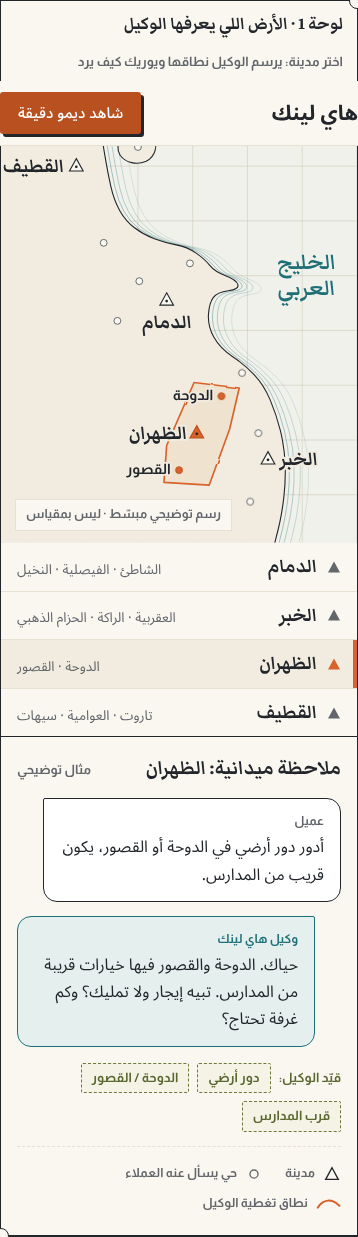
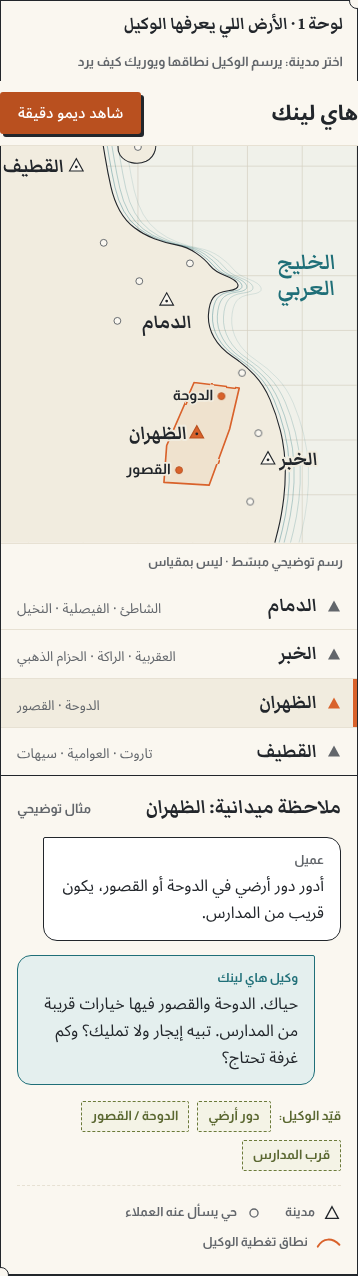
Run 2: site-c director round
Claude-Session: https://claude.ai/code/session_01CYWmR93YUjbtxaQfm32y4Y

diff --git a/fable-test-2/sites/site-c/index.html b/fable-test-2/sites/site-c/index.html
@@ -61,6 +61,7 @@ bdi{unicode-bidi:isolate}
 .btn-solid:hover{background:var(--green);color:var(--black)}
 .btn-line{background:transparent;color:var(--black)}
 .btn-line:hover{background:var(--black);color:var(--concrete)}
+.m-only{display:none}
 
 /* ---------- hero ---------- */
 .hero{border-block-end:var(--rule);min-block-size:calc(100vh - 75px);min-block-size:calc(100svh - 75px);display:flex;flex-direction:column}
@@ -74,7 +75,7 @@ bdi{unicode-bidi:isolate}
 .lede{margin-block:28px 36px;font-size:20px;max-inline-size:44ch}
 .ctas{display:flex;flex-wrap:wrap;gap:14px}
 .hero-side{display:flex;flex-direction:column}
-.hero-side .cell{padding:28px 32px;border-block-end:var(--rule);flex:1;display:flex;flex-direction:column;justify-content:flex-end}
+.hero-side .cell{padding:28px 32px;border-block-end:var(--rule);flex:1;display:flex;flex-direction:column;justify-content:flex-start}
 .hero-side .cell:last-child{border-block-end:0}
 .cell-label{font-weight:800;font-size:14px;margin-block-end:6px}
 .cell p{font-size:16px;line-height:1.6}
@@ -309,6 +310,15 @@ bdi{unicode-bidi:isolate}
   .final p{font-size:18px}
   .foot .wrap{grid-template-columns:minmax(0,1fr)}
 }
+@media (max-width:600px){
+  .d-only{display:none}
+  .m-only{display:inline}
+  .ctas .btn-line{inline-size:auto;border:0;padding:6px 0;background:none;text-decoration:underline;text-decoration-thickness:2px;text-underline-offset:6px;font-size:17px}
+  .ctas .btn-line:hover{background:none;color:var(--black);text-decoration-thickness:4px}
+  .row:not(.ev):not(.q){min-block-size:15px}
+  .row:not(.ev):not(.q) .sec{font-size:11px;line-height:15px}
+  .row.now:not(.ev):not(.q) .sec{font-size:12px}
+}
 @media (prefers-reduced-motion:reduce){
   html{scroll-behavior:auto}
   *,*::before,*::after{transition:none!important;animation:none!important}
@@ -339,11 +349,11 @@ bdi{unicode-bidi:isolate}
         <p class="lede">هاي لينك وكيل ذكاء اصطناعي يشتغل على واتساب مكتبكم: يرد على العميل خلال ثواني، يعرف وش يبي، ويحجز المعاينة في تقويم المكتب. بالليل، وفي الويكند، وفي وقت الدوام.</p>
         <div class="ctas">
           <a class="btn btn-solid" href="#minute">شاهد ديمو دقيقة <span class="arr" aria-hidden="true">←</span></a>
-          <a class="btn btn-line" href="mailto:highlink.sa@gmail.com">راسلنا بالإيميل</a>
+          <a class="btn btn-line" href="mailto:highlink.sa@gmail.com"><span class="d-only">راسلنا بالإيميل</span><span class="m-only">راسلنا: <bdi>highlink.sa@gmail.com</bdi></span></a>
         </div>
       </div>
       <div class="hero-side">
-        <div class="cell"><p class="cell-label">يرد</p><p class="cell-big"><bdi dir="ltr">24/7</bdi></p><p>حتى الساعة ثلاث الفجر.</p></div>
+        <div class="cell"><p class="cell-label">يرد</p><p class="cell-big"><bdi dir="ltr">24/7</bdi></p><p>حتى لو الساعة 3 الفجر.</p></div>
         <div class="cell"><p class="cell-label">التجربة</p><p class="cell-big">أسبوعين</p><p>مجانًا، على استفسارات حقيقية.</p></div>
         <div class="cell"><p class="cell-label">المدن</p><ul class="cities"><li>الخبر</li><li>الدمام</li><li>الظهران</li><li>القطيف</li></ul></div>
       </div>
@@ -607,6 +617,7 @@ bdi{unicode-bidi:isolate}
   }
   function render(s){
     if(s===cur) return; var prev=cur; cur=s;num.textContent=pad(s);
+    if(prev!==-1&&Math.abs(s-prev)===1&&num.animate&&!window.matchMedia('(prefers-reduced-motion:reduce)').matches){var dir=s>prev?1:-1;num.animate([{transform:'translateY('+(dir*0.18)+'em)',opacity:0.35},{transform:'translateY(0)',opacity:1}],{duration:180,easing:'cubic-bezier(.16,1,.3,1)'});}
     if((EVENTS.indexOf(s)>-1&&s>0||s===60)&&prev!==-1){num.classList.add('hit');clearTimeout(render.t);render.t=setTimeout(function(){num.classList.remove('hit');},450);}
     clock.dataset.phase=s>=60?'end':(s>=4?'go':'start');
     for(var k=0;k<tk.length;k++) tk[k].classList.toggle('on',k<s);

diff --git a/fable-test-2/sites/site-a/index.html b/fable-test-2/sites/site-a/index.html
@@ -227,13 +227,14 @@ section{position:relative}
 .n.lit-n{border-color:rgba(124,242,195,.35);color:var(--paper);background:radial-gradient(circle at 50% 35%,rgba(124,242,195,.16),#0E0C0A 70%)}
 .n.lit-n::before{background:var(--mint);box-shadow:0 0 14px rgba(124,242,195,.8)}
 .terms{list-style:none;padding:0;margin:30px 0 0;display:grid;gap:0;border-top:1px solid var(--line)}
-.terms li{padding-block:16px;border-bottom:1px solid var(--line);display:grid;grid-template-columns:120px 1fr;gap:18px;color:#CFC9BE}
+.terms li span{text-wrap:pretty}
+.terms li{padding-block:16px;border-bottom:1px solid var(--line);display:grid;grid-template-columns:84px 1fr;gap:18px;color:#CFC9BE}
 .terms li b{font-family:var(--f-ui);font-weight:500;color:var(--paper);font-size:.95rem}
 .promise{margin-block-start:28px;font-family:var(--f-display);font-weight:600;font-size:clamp(1.25rem,2vw,1.55rem);line-height:1.5;max-width:28ch}
 .promise em{font-style:normal;color:var(--mint)}
 
 /* final */
-.final{text-align:center;overflow:clip;padding-block:clamp(110px,14vw,190px)}
+.final{text-align:center;overflow:clip;padding-block:clamp(72px,8vw,110px) clamp(100px,12vw,170px)}
 .final::before{content:"";position:absolute;inset:auto 0 0;height:70%;z-index:-1;background:radial-gradient(80% 100% at 50% 100%,rgba(120,140,180,.16),rgba(120,140,180,.04) 50%,transparent 75%)}
 .final .h2{margin-inline:auto;max-width:none;font-size:clamp(1.9rem,4.2vw,3.6rem)}
 .final .sub{margin-inline:auto}

diff --git a/fable-test-2/sites/site-b/index.html b/fable-test-2/sites/site-b/index.html
@@ -219,7 +219,7 @@ section{scroll-margin-top:72px}
 .day b{font-family:var(--f-display); font-size:26px; line-height:1}
 .day span{font-family:var(--f-label); font-weight:700; font-size:11.5px; color:var(--muted); line-height:1.4}
 .day.k{background:var(--land)}
-.day.live{background-image:repeating-linear-gradient(135deg, rgba(31,111,120,.16) 0 1.5px, transparent 1.5px 7px)}
+.day.live{background-image:repeating-linear-gradient(135deg, rgba(31,111,120,.28) 0 1.5px, transparent 1.5px 7px)}
 .strip-note{display:flex; align-items:center; gap:10px; margin-top:12px; font-size:14px; color:var(--muted)}
 .strip-note i{width:28px; height:14px; border:1px solid var(--grid); background-image:repeating-linear-gradient(135deg, rgba(31,111,120,.3) 0 1.5px, transparent 1.5px 7px)}
 .day.end{background:var(--orange-deep); color:#fff}

diff --git a/fable-test-2/sites/site-c/NOTES.md b/fable-test-2/sites/site-c/NOTES.md
@@ -54,3 +54,10 @@ Final check after fixes: errors [] at 1440 and 390, overflow-x 0, file 39,335 by
 - The giant counter uses `textContent` swaps with no digit-roll animation, so it is intentionally abrupt and some may read it as static.
 - The minute's second marks are tied to DOM row positions, not exact time. A very fast flick can skip the event flash (by design, it only flashes on the landed second).
 - Desktop hero side cells are bottom-aligned, which leaves deliberate but large top whitespace in each cell at 900px height.
+
+## Director round
+1. **Desktop hero side cells:** each cell is now top-aligned like a spec sheet: label at the top edge, the big value and caption directly under it. Copy changed to «حتى لو الساعة 3 الفجر» (Western numeral, matching the page).
+2. **Mobile secondary CTA (≤600px):** the boxed button is now an underlined text link «راسلنا: highlink.sa@gmail.com», with the email in `<bdi>`. Desktop keeps the boxed «راسلنا بالإيميل».
+3. **Empty seconds on mobile (≤600px):** non-event, non-quarter rows collapse to 15px, half height, with an 11px number. All 61 rows remain. Event rows and the 15/30/45 office notes keep full height, so the runs 05–10, 21–26, 51–59 read as time ticking past. Mobile page height dropped from 9,642 to 8,907px.
+4. **Digit roll:** when the second changes by exactly 1, the sticky numeral rolls in vertically (0.18em, opacity 0.35→1, 180ms, `cubic-bezier(.16,1,.3,1)`), from below going forward and from above going back. Jumps larger than 1 just swap the digits. It's skipped under prefers-reduced-motion (Web Animations API, gated by matchMedia). I verified it with a stepped-scroll script: the roll fired on ±1 steps and the console stayed clean.
+5. **Shots:** c-{d,m}-{top,mid,bot}-p4.png re-rendered from the current code (mid = second 20). **Errors: [] on all 6.** Overflow-x 0 at 390.
